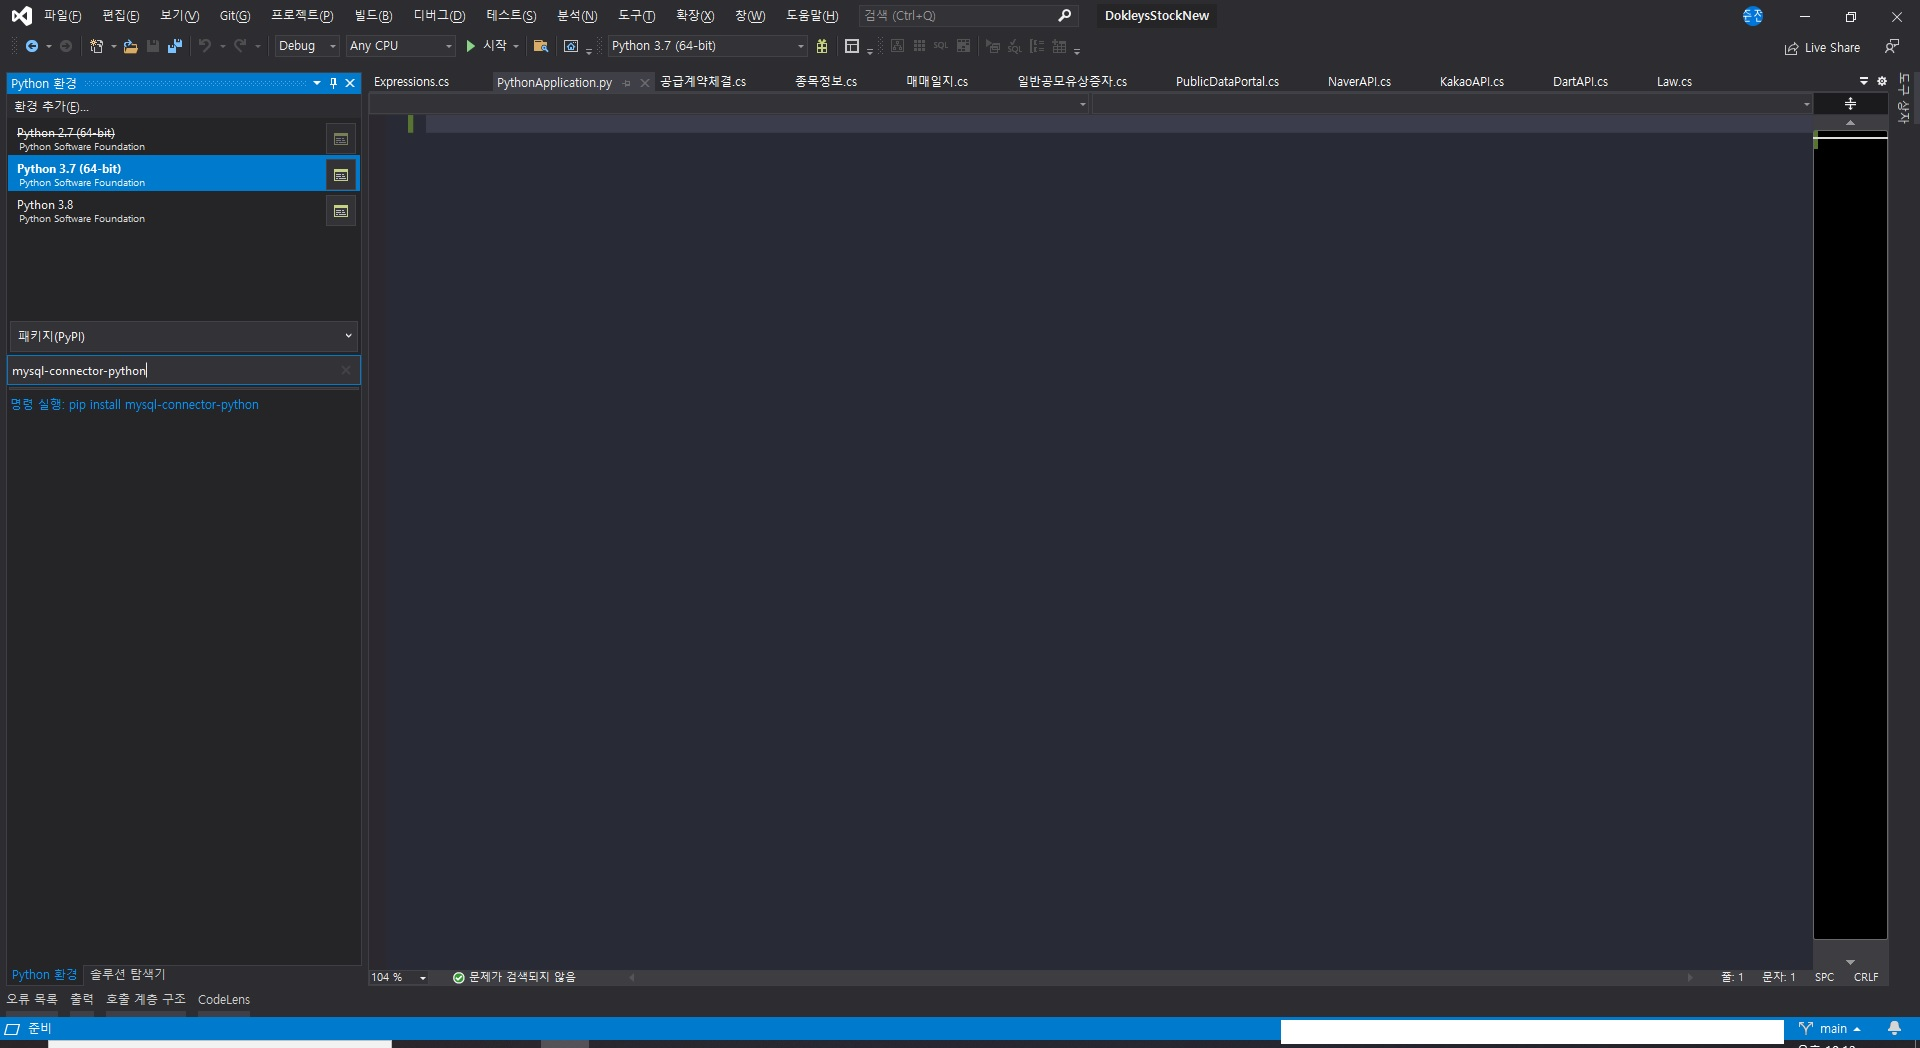
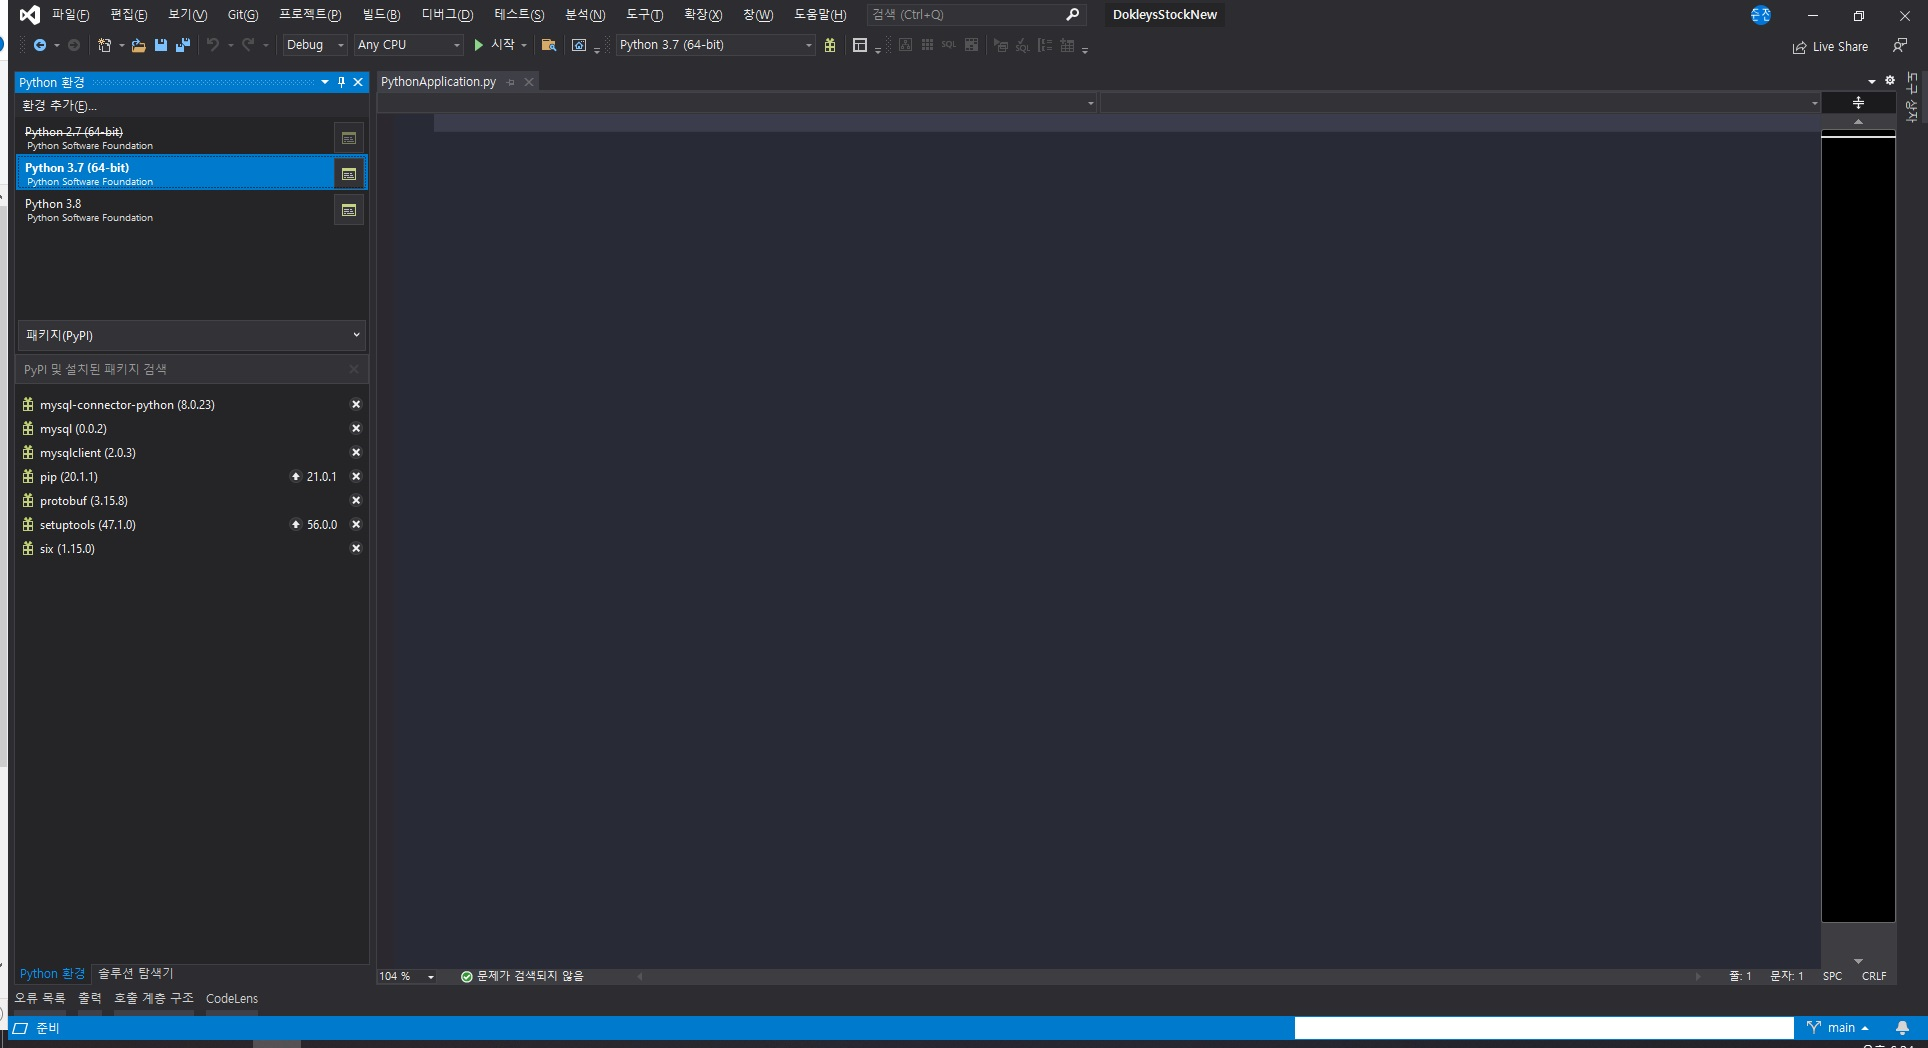
asg
asg

diff --git a/_posts/2021-04-17-pythonbasic-1.md b/_posts/2021-04-17-pythonbasic-1.md
@@ -7,15 +7,26 @@ excerpt: "효율적인 Python 코딩 환경 구축을 위한 탐색"
 # tags:
 #   - [Blog, jekyll, Github, Git]
 
-# toc: true
-# toc_sticky: true
+toc: true
+toc_sticky: true
  
-date: 2021-04-17
-last_modified_at: 2021-04-17
+date: 2021-04-18
+last_modified_at: 2021-04-18
 ---
-
-_Python 설치와 관련된 부분은 기재하지 않았습니다._
 
 ## 1. 적절한 IDE 선택 - Visual Studio
 
-효율적인 코딩을 위해서는 나에게 맞는 환경을 구축하는 것이 정말 중요한 것 같다. 나의 경우에는 **Visual Studio**가 가장 익숙한 편이라 **Visual Studio**로 파이썬 개발환경을 구축하려 한다.
+효율적인 코딩을 위해서는 나에게 맞는 환경을 구축하는 것이 정말 중요한 것 같다. 나의 경우에는 **Visual Studio** 가 가장 익숙한 편이라 **Visual Studio** 로 파이썬 개발환경을 구축하려 한다.  
+
+![Visual Studio 패키지 관리 창]("\assets\image\pythonbasic-1\visual-studio-python.jpg")  
+
+Visual Studio 는 위와 같이 **"Python 패키지 관리"** 를 위해 **"Python 환경"** 창을 가지고 있다. 여기에서는 패키지 이름을 잘 모르더라도 검색을 통해 새로운 패키지를 설치할 수 있고, 별도의 명령어 없이 직접 설치되어 있는 패키지를 확인할 수 있기 때문에 매우 편리한 것 같다.
+
+## 2. Python 실행방식의 이해 - 인터프리터 언어
+
+이에 관련해서는 이미 상당히 많은 수의 자료가 인터넷에 나와 있었다. 각각에 대한 이해를 위한 링크는 아래와 같다.
+
+- [인터프리터 언어와 컴파일 언어]("https://velog.io/@emily0_0/%EC%BB%B4%ED%8C%8C%EC%9D%BC-%EC%96%B8%EC%96%B4%EC%99%80-%EC%9D%B8%ED%84%B0%ED%94%84%EB%A6%AC%ED%84%B0-%EC%96%B8%EC%96%B4")  
+- [C 컴파일 과정]("https://brunch.co.kr/@mystoryg/57")  
+- [Python 동작 원리]("https://cjh5414.github.io/about-python-and-how-python-works/")  
+

diff --git a/_posts/2021-04-17-main-1.md b/_posts/2021-04-17-main-1.md
@@ -7,8 +7,8 @@ excerpt: "개발기록 및 새로운 분야에 대한 학습기록을 남기기 
 # tags:
 #   - [Blog, jekyll, Github, Git]
 
-# toc: true
-# toc_sticky: true
+toc: true
+toc_sticky: true
  
 date: 2021-04-17
 last_modified_at: 2021-04-17
